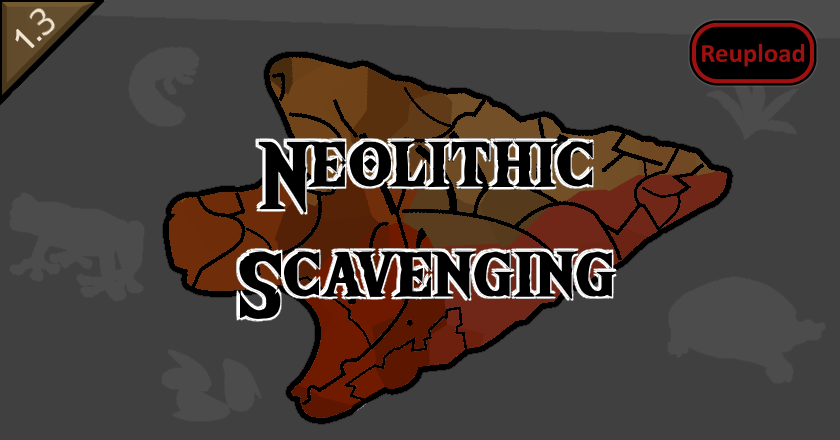
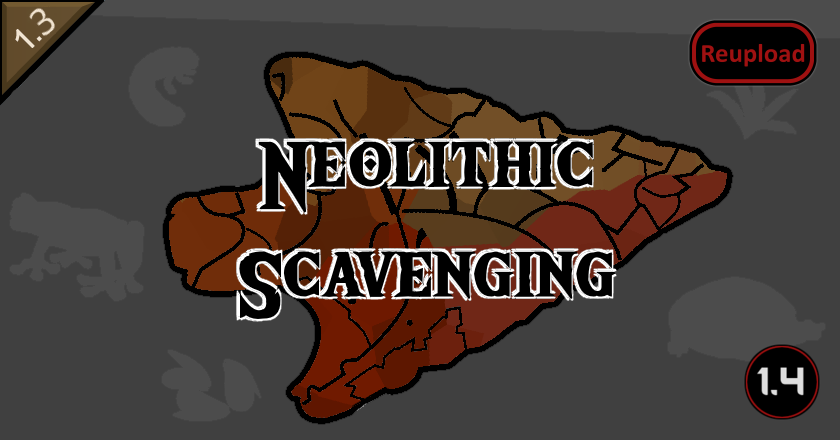
Royalty guests will now not be able to scavenge

Changed region(s): [[0.8667, 0.7682, 0.9905, 0.975]]

diff --git a/README.md b/README.md
@@ -99,9 +99,13 @@ https://discord.gg/r8ZqS8UzKP]![Image](https://i.imgur.com/gh6C5m2.png)
 
 -  See if the the error persists if you just have this mod and its requirements active.
 -  If not, try adding your other mods until it happens again.
--  Post your error-log using https://steamcommunity.com/workshop/filedetails/?id=818773962]HugsLib and command Ctrl+F12
+-  Post your error-log using https://steamcommunity.com/workshop/filedetails/?id=818773962]HugsLib or the standalone https://steamcommunity.com/sharedfiles/filedetails/?id=2873415404]Uploader and command Ctrl+F12
 -  For best support, please use the Discord-channel for error-reporting.
 -  Do not report errors by making a discussion-thread, I get no notification of that.
 -  If you have the solution for a problem, please post it to the GitHub repository.
+-  Use https://github.com/RimSort/RimSort/releases/latest]RimSort to sort your mods
 
+
+
+https://steamcommunity.com/sharedfiles/filedetails/changelog/2893843175]![Image](https://img.shields.io/github/v/release/emipa606/NeolithicScavenging?label=latest%20version&style=plastic&color=9f1111&labelColor=black)
 
